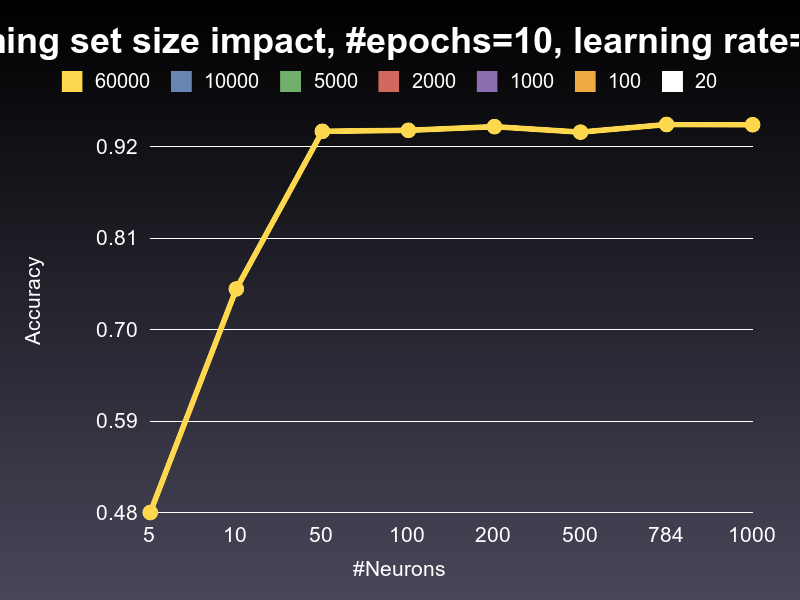
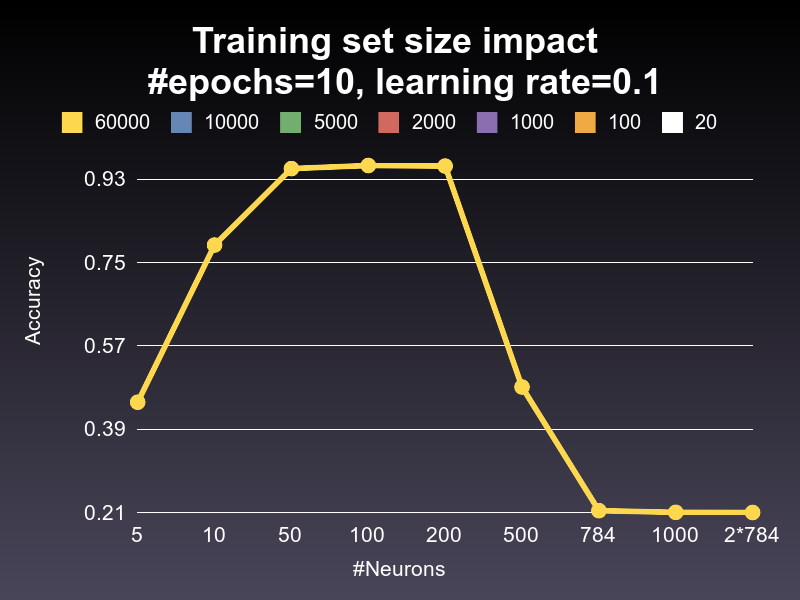
Hacked together more images.

diff --git a/4/report/report.tex b/4/report/report.tex
@@ -396,13 +396,27 @@ One observation we made was, that the learning rate must be set dependent on
 the the number of neurons used. A plot comparing these two properties can
 be seen in Figure \ref{fig:learning_rate_vs_number_neurons}.
 
+We could also observe the most prevalent disadvantage of artificial neural networks.
+While the performance with large datasets is quite good, 
+they take a long time to learn. If the training set size is reduced,
+accuracy drops considerably. 
+Some trials showing this behavior can be seen in Figure \ref{fig:trainig_set_size_vs_number_neurons}.
 \begin{figure}
 	\center
-	\includegraphics[width=0.4\textwidth]{../output/evaluation/learning_rates_e_100.png}
+	\includegraphics[width=0.4\textwidth]{../output/evaluation/learning_rates_e_100}
 	\caption{Different learning rates with different number of neurons. 
 	It becomes apparent, that very low learning rates work well with low numbers
 	of neurons, but high learning rates work well with higher number of neurons.}
 	\label{fig:learning_rate_vs_number_neurons}
+\end{figure}
+
+\begin{figure}
+	\center
+	\includegraphics[width=0.4\textwidth]{../output/evaluation/{training_set_size_e_100_lr_0.01}.png}
+	\caption{Different sizes of training sets with different number of neurons. 
+	As expected, the more training samples available, the better the results. 
+	However, the time used for learning does also grow with training set size.}
+	\label{fig:trainig_set_size_vs_number_neurons}
 \end{figure}
 
 % An example of a floating figure using the graphicx package.

diff --git a/4/visualize.rb b/4/visualize.rb
@@ -3,13 +3,15 @@ require 'rmagick'
 g = Gruff::Line.new
 g.y_axis_label = 'Accuracy'
 g.x_axis_label = '#Neurons'
-g.labels = { 0 => '5', 1 => '10', 2 => '50', 3 => '100', 4 => '200' }
-nr_epochs = 50
-g.title = "Learning rate impact, #epochs=#{nr_epochs}"
-learning_rates = %w(0.1 0.01 0.001 0.0001)
+g.labels = { 0 => '5', 1 => '10', 2 => '50', 3 => '100', 4 => '200', 5 => '500', 6 => '784', 7 => '1000', 8 => '2*784' }
+nr_epochs = 100
+#learning_rates = %w(0.1 0.01 0.001 0.0001)
+lr = 0.1
+g.title = "Training set size impact \n #epochs=#{nr_epochs}, learning rate=#{lr}"
 
-learning_rates.each do |lr|
-  evaluation_files = Dir["a_*_l_#{lr}_e_#{nr_epochs}.txt"]
+tds = %w(1 6 12 30 60 600 3000)
+tds.each do |td|
+  evaluation_files = Dir["output/a_*_l_#{lr}_e_#{nr_epochs}_td_#{td}.txt"]
   results = []
   evaluation_files.sort_by! { |ele| ele.split('n_').last.split('_').first.to_i }
   puts evaluation_files.join(', ')
@@ -24,7 +26,8 @@ learning_rates.each do |lr|
     end
   end
   puts results.join(',')
-  g.data lr, results
+  label = (60000 / td.to_i).to_s
+  g.data label, results
 end
 file_path = 'output/evaluation'
-g.write("#{file_path}/learning_rates.png")
+g.write("#{file_path}/training_set_size_e_#{nr_epochs}_lr_#{lr}.png")
